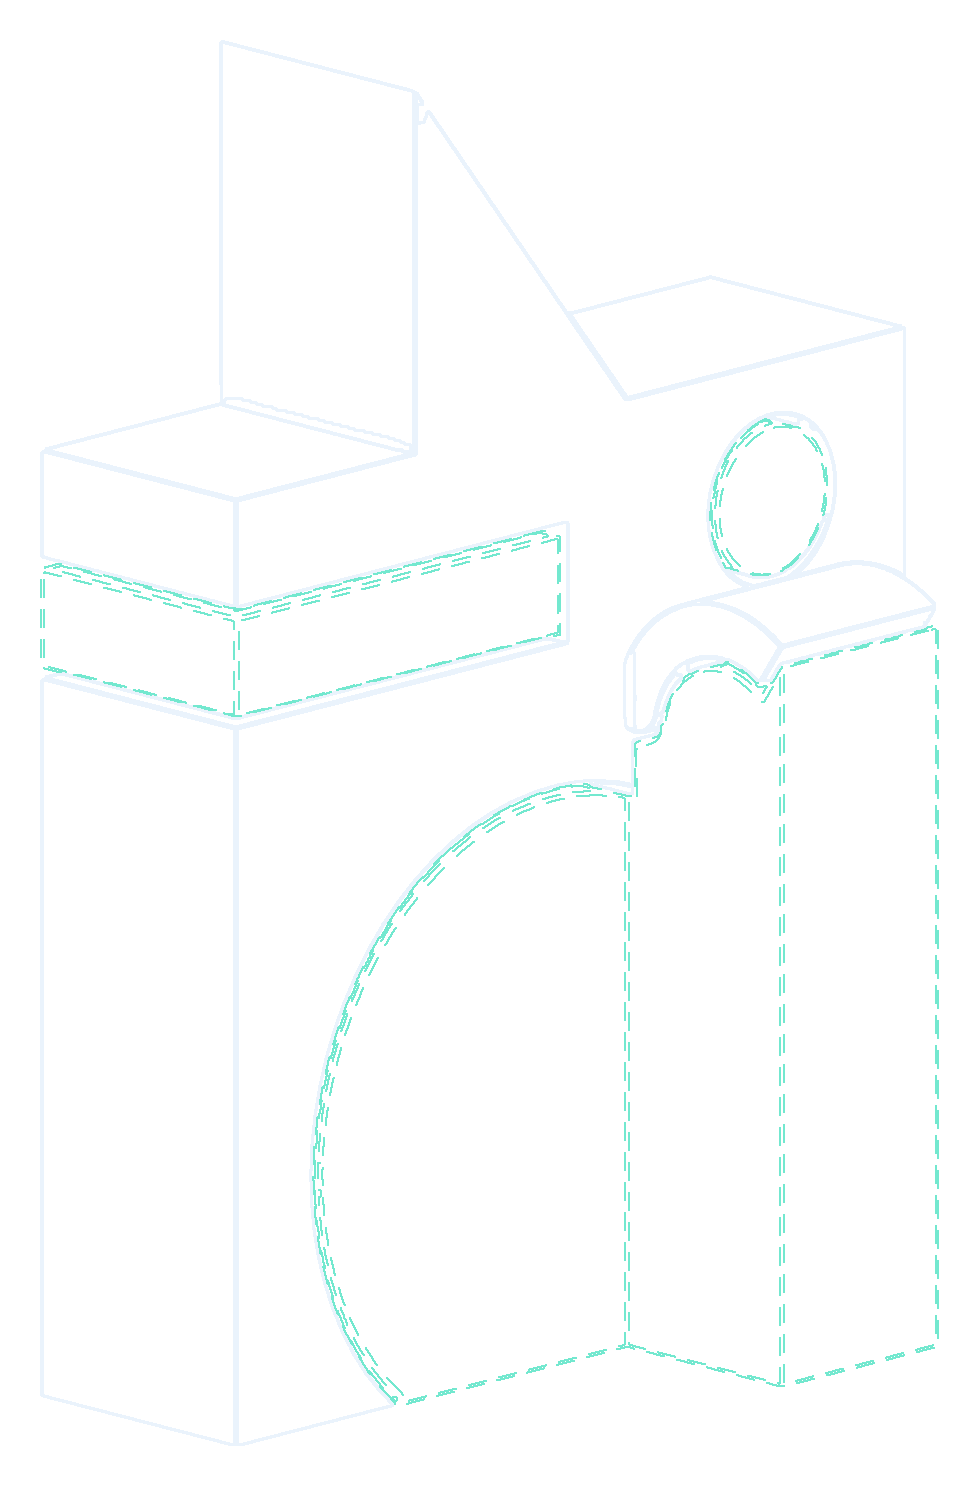
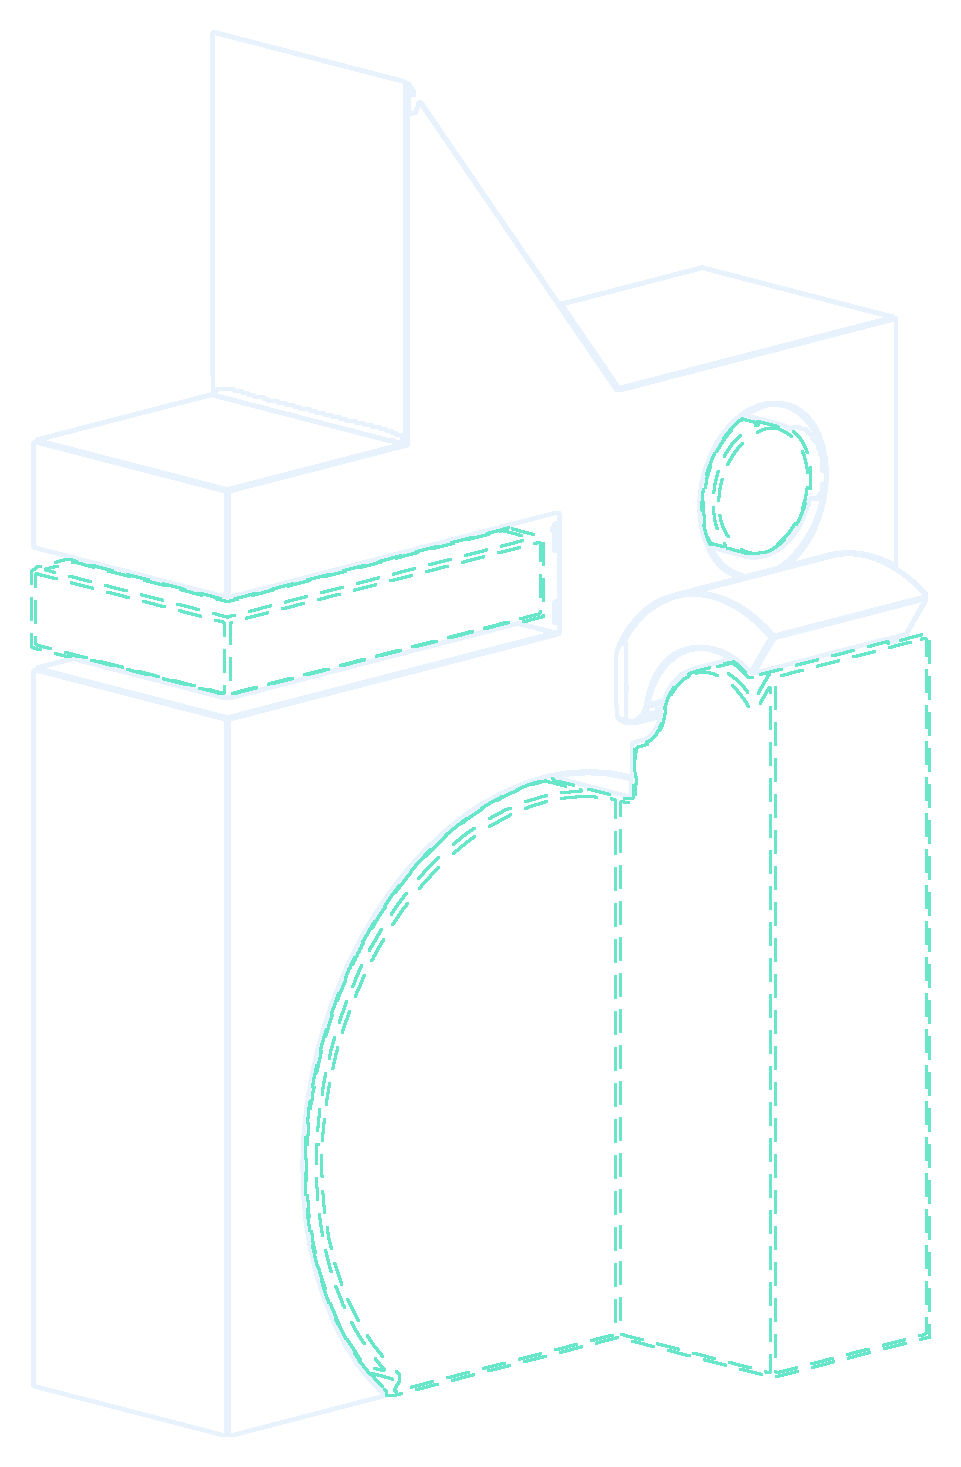
Thicker outline illustration from wider-margin source, bump to 360px

diff --git a/server/web/src/pages/Landing.tsx b/server/web/src/pages/Landing.tsx
@@ -117,7 +117,7 @@ export default function Landing() {
             the geometry's exact shape with a precision air gap.
           </p>
           <div className='flex justify-center mb-14'>
-            <img src='/hero-outline.png' alt='Model with negative-space supports' className='h-[280px] w-auto opacity-70' />
+            <img src='/hero-outline.png' alt='Model with negative-space supports' className='h-[360px] w-auto opacity-70' />
           </div>
           <div className='grid grid-cols-2 gap-4 max-sm:grid-cols-1'>
             {/* Tree supports */}
